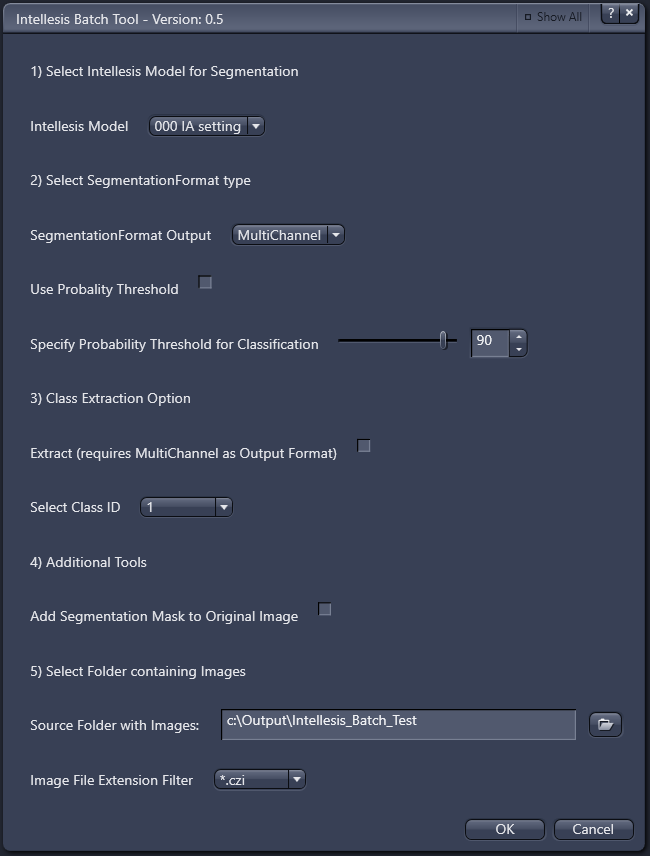
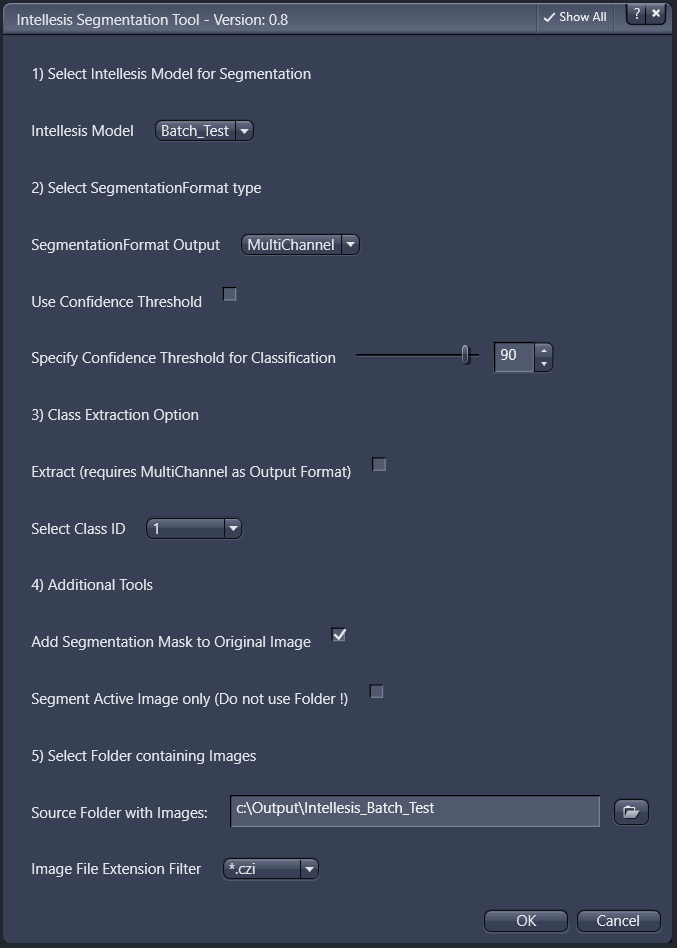
updates

diff --git a/Scripts/Intellesis_and_MachineLearning/README.md b/Scripts/Intellesis_and_MachineLearning/README.md
@@ -81,25 +81,56 @@ To read about the newest developments on APEER read the blog:
 
 This simple script demonstrated the different possibilities to segment an image using a trained model. The result of such a segmentation is a mask image, which has either as many channels as the models has classes, or one channel containing a distinct label for every class.
 
-![ZEN Python](/Images/intellesis_segoptions.png)
+![ZEN Intellesis Segmentation Options](/Images/intellesis_segoptions.png)
 
 *(top left) - raw image data data (top right) segmented image (bottom left) segmeneted with confidence threshold and (bottom right) probobility map image*
 
-### Intellesis_Batch_Tool.py
+### Intellesis_Segmentation_Tool.py
 
-![ZEN Python](/Images/intellesis_batch.png)
+![ZEN Intellesis Segmentation Tool](/Images/intellesis_batch.png)
 
-*Intellesis - Batch Tool*
+*ZEN Intellesis Segmentation Tool*
 
 ***
 
-The Intellesis Batch Tool allows you to automate and simplify the following tasks:
+The Intellesis Segmentation Tool allows you to automate and simplify the following tasks:
 
 - Select a model to segment images
 - Specify the desired output format for the mask image
-- Optional Probability Treshold that can be appied to mask image
+- Optional Confidence Threshold that can be appied to mask image
 - Optional Extraction of a specific singkle class
 - Option to add the mask image to the original image
 - Selection of output folder with file extension filter
+- Option to segment all image iside a folder or only apply to active image
 
-Beside this tool is is alos possible to run a segmenation using the ZEN built-in batch tool, hwich does not require this script but offers less addtional options.
+Beside this tool is is alos possible to run a segmenation using the ZEN built-in batch tool, which does not require this script but offers less addtional options.
+
+### Intellesis_Segmentation_Tool_singleCH.py
+
+![ZEN Intellesis Segmentation Tool - Single Channel](/Images/intellesis_batch_singleCH1.png)
+
+*Intellesis Segmentation Tool Single Channel - Step 1*
+
+***
+
+![ZEN Intellesis Segmentation Tool - Single Channel](/Images/intellesis_batch_singleCH2.png)
+
+*Intellesis Segmentation Tool Single Channel - Step 2*
+
+***
+
+The Intellesis Segmentation Tool Single Channel allows you to automate and simplify the following tasks:
+
+- It uses the current active image as an input
+- Specify the channel to be segmented and the model to be uses in step 1
+- Specify the desired class (for the selected model) and other option in step 2
+- Apply segementation to the selected channel
+- Optionally add the mask to the original multi-channel image
+
+Beside this tool is is alos possible to run a segmenation using the ZEN built-in batch tool, which does not require this script but offers less addtional options.
+
+***
+
+![ZEN Intellesis Segmentation Tool - Single Channel](/Images/intellesis_batch_singleCH_result.png)
+
+*Segmented green channel (Bottom Left)*
